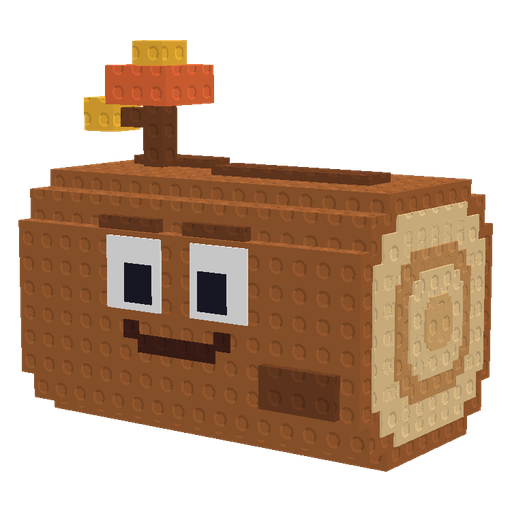
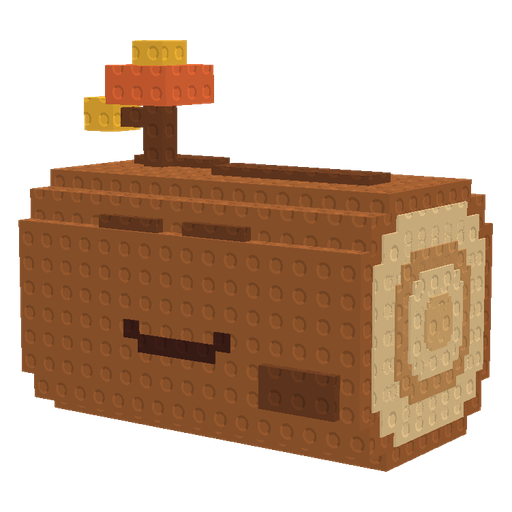
Rolling Log: no eyes (QM)
Claude-Session: https://claude.ai/code/session_0162XubAoFVnZpNzEroHPWAG

Changed region(s): [[0.1875, 0.4375, 0.5, 0.6562]]

diff --git a/tools/rolling_log.py b/tools/rolling_log.py
@@ -1,8 +1,8 @@
 """Rolling Log: World 2 Woodland Maze's Rare (QM, Oct 13), a living log that rolls.
 
 A fat log lying across the path (its length runs left-right, so it rolls forward),
-warm bark with raised darker bark strips, pale cut ends with growth rings, the
-animals' standard white plate eyes with pupils and a big grin on the front of the bark,
+warm bark with raised darker bark strips, pale cut ends with growth rings, brows
+and a big grin on the front of the bark (no eyes: QM, Oct 13),
 and a twig of autumn leaves (the Woodland walls' orange) sprouting off the top.
 
 The round log is stepped from three axis-aligned blocks per slice (a wide one, a tall
@@ -77,13 +77,9 @@ def rolling_log():
                          ("StripFront", (-3.6, CY - 1.4, -R - t), (-2.0, CY - 0.6, -R))):
         a.box(name, lo, hi, BARK_DARK, "Log")
 
-    # face on the front of the bark: plate eyes looking forward, brows, a big grin
+    # face on the front of the bark: brows and a big grin, no eyes (QM, Oct 13)
     z = -R
     for side, sx in (("L", -1), ("R", 1)):
-        xa, xb = sorted((sx * 0.35, sx * 1.65))
-        a.box("Eye" + side, (xa, CY + 0.05, z - A.PLATE), (xb, CY + 1.45, z), A.EYE_WHITE, "Log")
-        pa, pb = sorted((sx * 0.55, sx * 1.2))
-        a.box("Pupil" + side, (pa, CY + 0.2, z - A.PLATE - 0.03), (pb, CY + 0.95, z - A.PLATE), A.PUPIL, "Log")
         ba, bb = sorted((sx * 0.3, sx * 1.7))
         a.box("Brow" + side, (ba, CY + 1.6, z - 0.2), (bb, CY + 1.85, z), BARK_DARK, "Log")
     a.box("Mouth", (-0.9, CY - 0.75, z - A.PLATE), (0.9, CY - 0.4, z), MOUTH, "Log")
